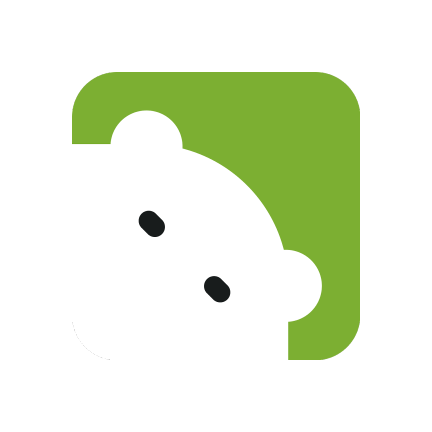
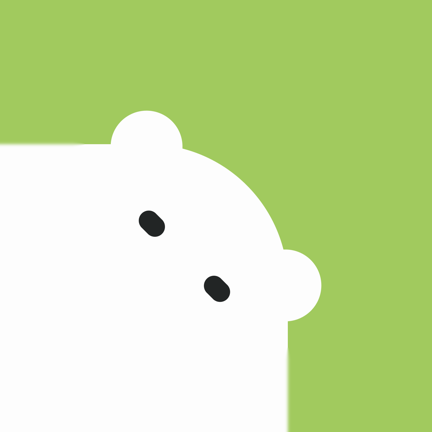
design: 새 로고 하나를 원본으로 삼아 파생 이미지를 다시 굽는다
logo1024.png가 새로 왔다. 예전 것과 성질이 다르다 — 테두리를 따라 40px쯤 되는
안쪽 그림자 띠(#A1CA5E → #8DB253)가 있고 둥근 모서리 반지름은 191이다.
그냥 가장자리 색을 바깥으로 늘이면 그 띠까지 번져 모서리에 검은 링이 생긴다.
그래서 띠를 걷어낸(알파 마스크 44px 침식) 안쪽 색만 확장해 메웠다.

- app_icon: iOS가 알파와 둥근 모서리를 직접 씌우므로 정사각 불투명으로 만든다.
  메운 위에 원본을 알파 그대로 다시 얹어 그림자 띠는 살렸다.
- android-icon-foreground: 로고를 288로 넣고 가장자리 색을 432 캔버스 끝까지
  늘였다. 예전 에셋은 로고 초록이 adaptiveIcon 배경(#7CAF32)과 정확히 같아
  윤곽이 안 보였을 뿐인데, 새 초록은 그라데이션이라 그대로 두면 둥근 사각형이
  드러난다.
- favicon: 196으로 축소.

Logo는 소스를 logo1024.png 하나로 통일했다. shadow 분기가 쓰던 것과 같은
파일이고, 분기가 없는 쪽만 옛 logo.png를 초록 컨테이너로 감싸 쓰고 있었다
(호출부는 0곳). 참조가 사라진 logo.png / @2x / @3x / splash-icon.png는 지웠다.

ios·android의 네이티브 스플래시와 아이콘은 prebuild가 구워둔 옛 로고였다.
두 플랫폼 모두 다시 구웠다. 기기에 반영되려면 dev 빌드를 새로 만들어야 한다.

Claude-Session: https://claude.ai/code/session_01VpQ4JajqULtWMCRV5QfX7E

diff --git a/components/Logo.tsx b/components/Logo.tsx
@@ -1,4 +1,4 @@
-import { Image, View } from 'react-native';
+import { Image } from 'react-native';
 
 interface LogoProps {
   /** 한 변의 길이. 시안 기준 150. */
@@ -6,20 +6,17 @@ interface LogoProps {
   className?: string;
 }
 
-// 시안: 150 정사각형에 radius 28 → 한 변의 18.67%.
-const RADIUS_RATIO = 28 / 150;
-
+/**
+ * 앱 로고. 소스는 `assets/logo1024.png` 하나뿐이다 — 둥근 모서리와 배경 초록이
+ * 그림 안에 들어 있으므로 초록 컨테이너로 감싸거나 cover로 잘라내면 안 된다.
+ */
 export function Logo({ size = 150, className = '' }: LogoProps) {
   return (
-    <View
-      className={`bg-green-500 ${className}`}
-      style={{ width: size, height: size, borderRadius: size * RADIUS_RATIO, overflow: 'hidden' }}
-    >
-      <Image
-        source={require('@/assets/logo.png')}
-        style={{ width: size, height: size }}
-        resizeMode="cover"
-      />
-    </View>
+    <Image
+      source={require('@/assets/logo1024.png')}
+      className={className}
+      style={{ width: size, height: size }}
+      resizeMode="contain"
+    />
   );
 }

diff --git a/app/index.tsx b/app/index.tsx
@@ -5,7 +5,6 @@ import { router } from 'expo-router';
 import { useEffect, useState } from 'react';
 import { Animated, View } from 'react-native';
 import { Logo } from '@/components/Logo';
-import { Text } from '@/components/Text';
 
 export default function SplashScreen() {
   // useRef(...).current는 렌더 중 ref 읽기라 React 규칙 위반이다.
@@ -51,15 +50,9 @@ export default function SplashScreen() {
 
   return (
     <View className="h-full w-full flex-1 items-center justify-center bg-surface">
-      {/* 시안: 로고 150 + 20px 아래 워드마크. 워드마크는 경기천년제목이지만 Pretendard로 대체했다. */}
+      {/* 로고만 띄운다. 워드마크는 로고 안에 이미 브랜드가 담겨 중복이라 뺐다. */}
       <Animated.View style={{ opacity, alignItems: 'center' }}>
         <Logo size={150} />
-        <Text
-          className="mt-5 font-pretendard-bold text-green-500"
-          style={{ fontSize: 48, lineHeight: 48 }}
-        >
-          빙킷
-        </Text>
       </Animated.View>
     </View>
   );
